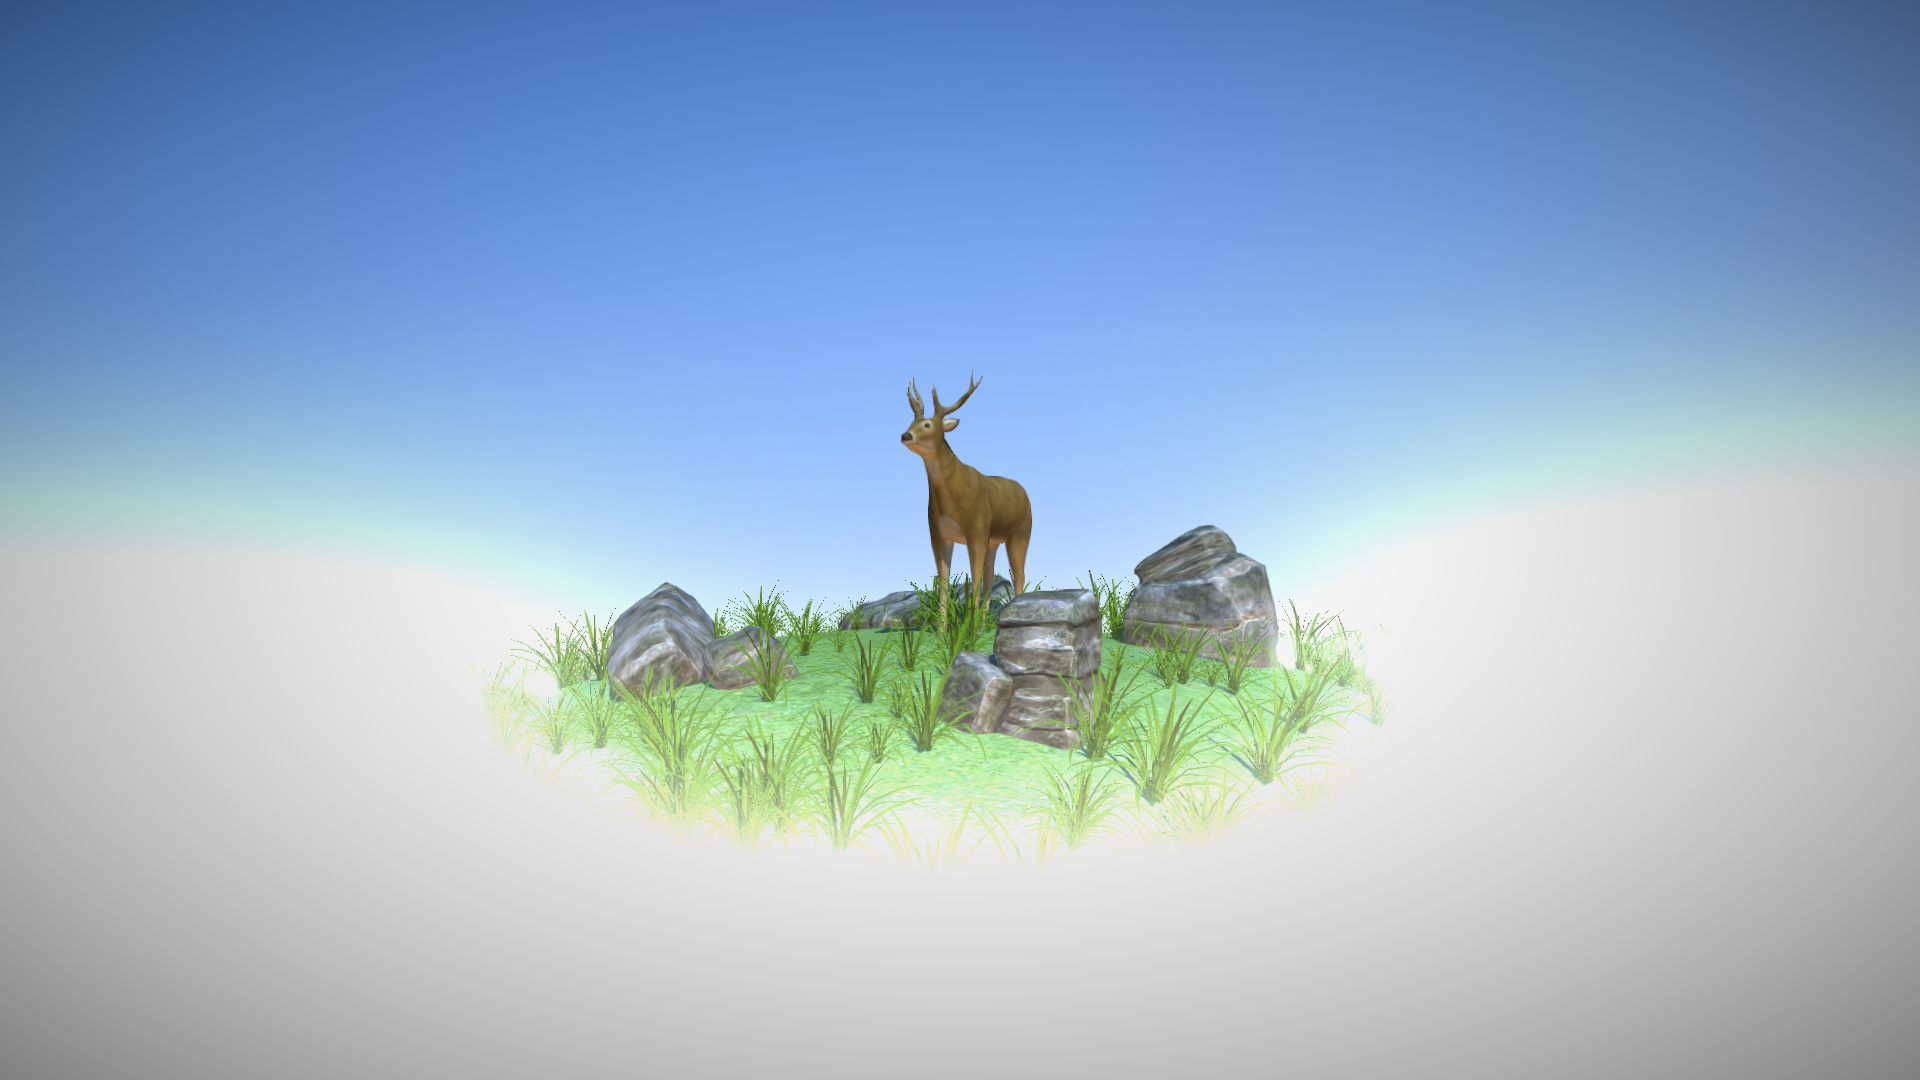
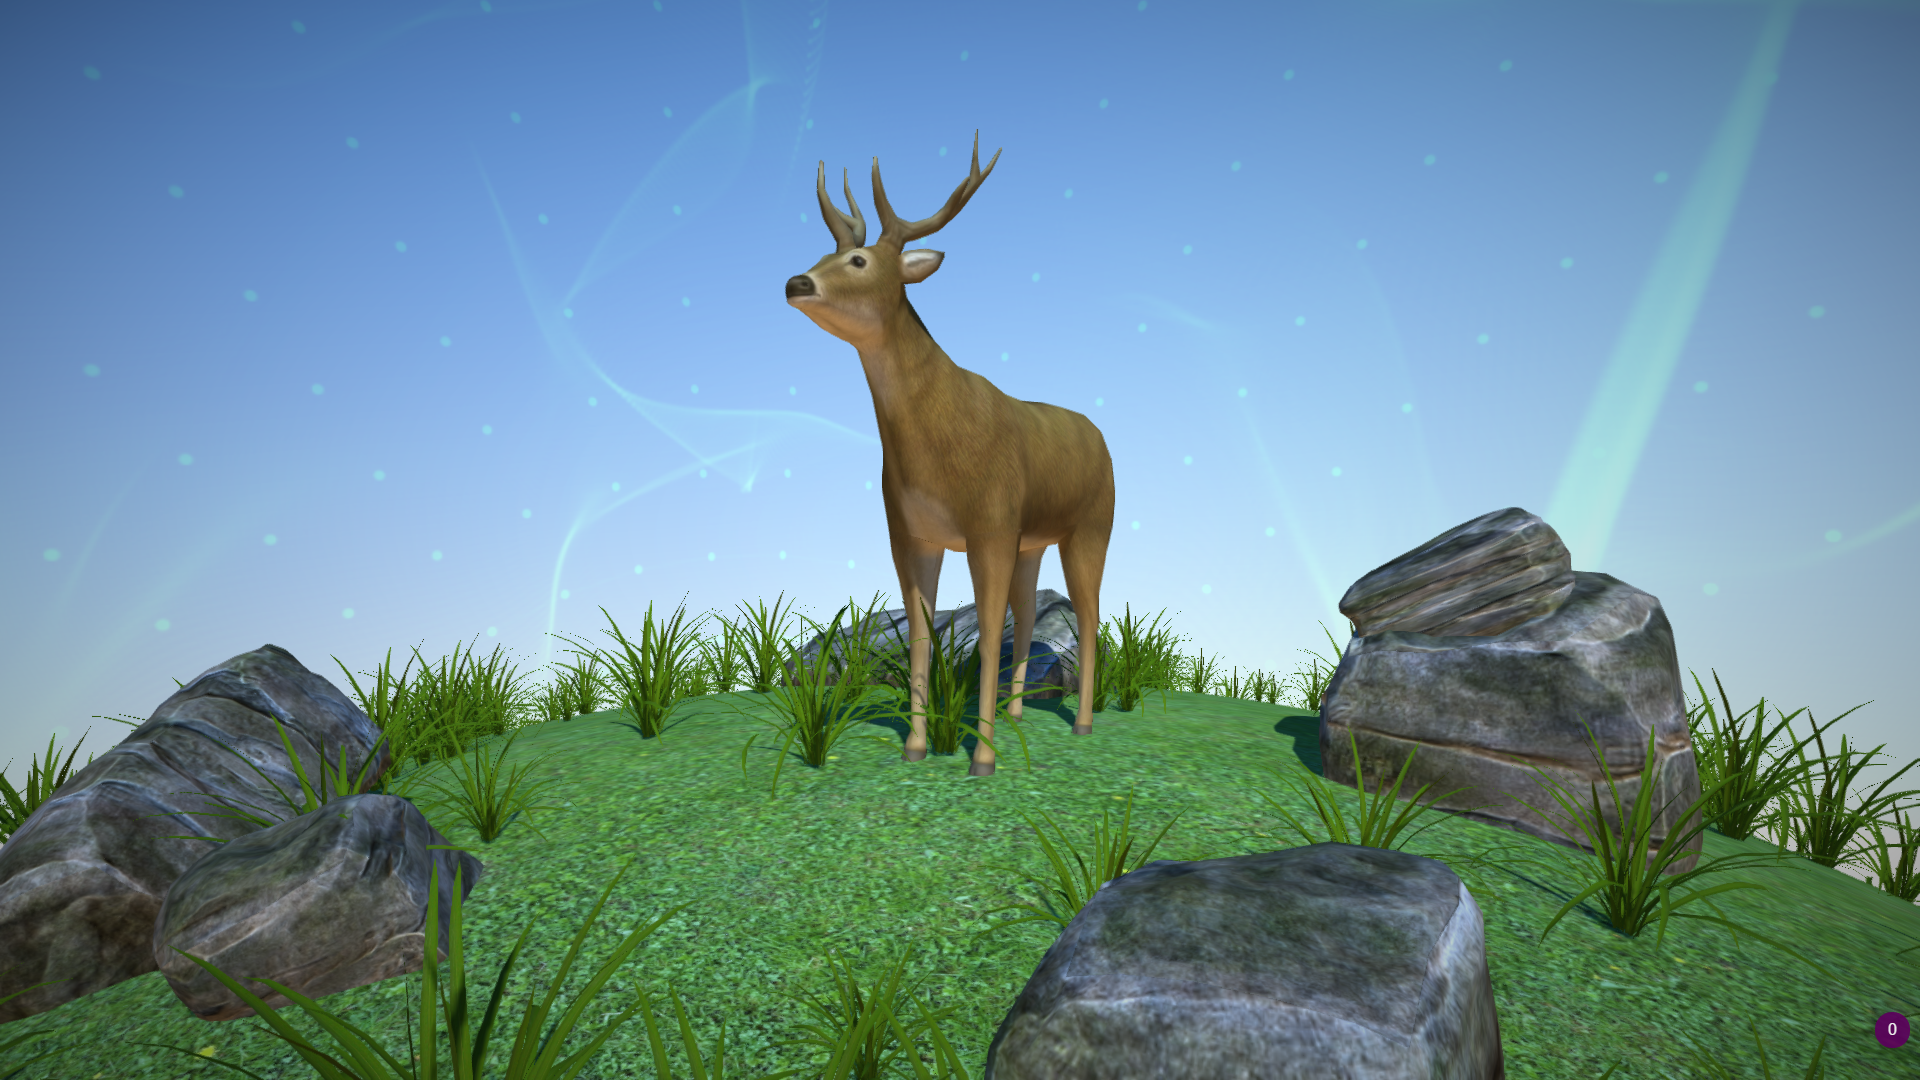
added environment, removed unused maps

diff --git a/exercice/index.html b/exercice/index.html
@@ -19,6 +19,7 @@
 </head>
 <body>
 
+    <!--THREE & utils-->
     <script src="../three.js/build/three.js"></script>
     <script src="../three.js/examples/js/loaders/OBJLoader.js"></script>
     <script src="../three.js/examples/js/controls/OrbitControls.js"></script>
@@ -26,11 +27,13 @@
     <!--post processing (effets)-->
     <script src="../three.js/examples/js/postprocessing/EffectComposer.js"></script>
 
+        <!--passes-->
         <script src="../three.js/examples/js/postprocessing/RenderPass.js"></script>
         <script src="../three.js/examples/js/postprocessing/MaskPass.js"></script>
         <script src="../three.js/examples/js/postprocessing/ShaderPass.js"></script>
         <script src="../three.js/examples/js/postprocessing/UnrealBloomPass.js"></script>
 
+        <!--shaders-->
         <script src="../three.js/examples/js/shaders/CopyShader.js"></script>
         <script src="../three.js/examples/js/shaders/ConvolutionShader.js"></script>
         <script src="../three.js/examples/js/shaders/FXAAShader.js"></script>
@@ -39,7 +42,7 @@
         <script src="../three.js/examples/js/shaders/SSAOShader.js"></script>
         <script src="../three.js/examples/js/shaders/VignetteShader.js"></script>
 
-
+    <!--custom code-->
 
     <!--lib-->
     <script src="app/geometries.js"></script>
@@ -48,10 +51,13 @@
     <script src="app/post_processing.js"></script>
     <script src="app/shaders.js"></script>
     <script src="app/textures.js"></script>
-    <script src="app/models/deer.js"></script>
-    <script src="app/models/grass.js"></script>
-    <script src="app/models/ground.js"></script>
-    <script src="app/models/rocks.js"></script>
+
+    <!--models-->
+        <script src="app/models/deer.js"></script>
+        <script src="app/models/environment.js"></script>
+        <script src="app/models/grass.js"></script>
+        <script src="app/models/ground.js"></script>
+        <script src="app/models/rocks.js"></script>
 
     <!--main-->
     <script src="app/main.js"></script>

diff --git a/exercice/app/models/ground.js b/exercice/app/models/ground.js
@@ -9,8 +9,8 @@ var ground = function( exports ) {
         textures.ground_0.wrapS = textures.ground_0.wrapT = THREE.RepeatWrapping;
         textures.ground_0.repeat.multiplyScalar( 6 );
 
-        mesh = new THREE.Mesh(new THREE.SphereBufferGeometry(radius, 64, 128, 0, PI, 0, PI), materials.ground );
-        // mesh = new THREE.Mesh(new THREE.IcosahedronBufferGeometry(radius, 4), new THREE.MeshBasicMaterial({map: textures.ground_0}));
+        mesh = new THREE.Mesh(new THREE.SphereBufferGeometry(radius, 32, 32, 0, PI, 0, PI), materials.ground );
+        // mesh = new THREE.Mesh(new THREE.IcosahedronBufferGeometry(radius, 6), materials.ground);
 
         mesh.receiveShadow = true;
         mesh.rotateX( -PI / 2 );
@@ -19,6 +19,15 @@ var ground = function( exports ) {
         exports.mesh = mesh;
 
         /*
+        // on va avoir besoin de manipuler des textures sur la vertex shader
+        // ce qui n'est pas toujours supporté. il faut donc vérifier si cette
+        // opération est possible
+        //https://github.com/KhronosGroup/WebGL/blob/90ceaac0c4546b1aad634a6a5c4d2dfae9f4d124/conformance-suites/1.0.0/extra/webgl-info.html
+        var gl = renderer.getContext();
+        if( gl.getParameter(gl.MAX_VERTEX_TEXTURE_IMAGE_UNITS) == 0 ) {
+            throw new Error( "vertex shader cannot read textures" );
+        }
+
         shaderLoader.load([
             "app/glsl/ground_vert.glsl",
             "app/glsl/ground_frag.glsl"
@@ -31,7 +40,7 @@ var ground = function( exports ) {
             ], onTexturesLoaded );
 
         });
-        //*/
+         //*/
 
     };
 
@@ -51,12 +60,7 @@ var ground = function( exports ) {
             },
             vertexShader:   shaderLoader.ground_vert,
             fragmentShader: shaderLoader.ground_frag,
-            // transparent:true,
-            roughness : .75,
-            metalness : .05,
-            map: textures.ground_0
         });
-        console.log (material );
 
         mesh.material = material;
     }

diff --git a/exercice/app/main.js b/exercice/app/main.js
@@ -52,11 +52,11 @@ function initTextures(){
     console.log( "load textures" );
     var urls = [
         'res/deer.jpg',
+        'res/environment.png',
         'res/grass.jpg',
         'res/ground_0.jpg',
         'res/rock_diffuse.jpg',
-        'res/rock_normal.jpg',
-        'res/rock_specular.jpg'
+        'res/rock_normal.jpg'
     ];
     textures.load( urls, initLights );
 }
@@ -80,6 +80,10 @@ function creaeObjects(){
             params:{ map:textures.deer}
         },
         {
+            name:"environment",
+            params:{ map:textures.environment }
+        },
+        {
             name:"grass",
             params:{ map:textures.grass }
         },
@@ -91,23 +95,28 @@ function creaeObjects(){
             name:"rock",
             params:{
                 map:textures.rock_diffuse,
-                normalMap: textures.rock_normal,
-                // displacementMap:textures.rock_specular,
-                // displacementScale:10,
-                // displacementBias:0
+                normalMap: textures.rock_normal
             }
         }
     ];
-    materials.init( config );//synchrone, les materiaux sont disponibles immédiatement
+    //initialise les matériaux qui seront utillisé par les objets
+    materials.init( config );
 
+    //crée le bichon
     deer.init( scene );
 
+    //crée l'arrière plan
+    environment.init( scene );
+
+    //crée le terrain
     ground.init();
     scene.add( ground.mesh );
 
+    //ajooute les cailloux
     rocks.init();
     scene.add( rocks.group );
 
+    //ajoute la végétation
     grass.init( renderer, ground, rocks );
     scene.add( grass.group );
 
@@ -124,7 +133,7 @@ function update(){
 
     controls.update();
 
-    renderer.render( scene, camera );
+//    renderer.render( scene, camera );
 
     post_processing.render();
 

diff --git a/exercice/app/models/environment.js b/exercice/app/models/environment.js
@@ -1,0 +1,32 @@
+var environment = function( exports ){
+
+    var mesh, material;
+    exports.init = function( scene ){
+
+        material = materials.environment;
+        mesh = new THREE.Mesh( new THREE.SphereBufferGeometry( 1,128,64 ), material );
+        material.blending = THREE.AdditiveBlending;
+        material.transparent = true;
+
+        mesh.scale.multiplyScalar( -1000 );
+        scene.add( mesh );
+        exports.start();
+
+    };
+
+    //animation
+    var raf;
+    exports.stop = function(){ cancelAnimationFrame(raf); };
+    exports.start = function(){ exports.stop(); update(); };
+    function update(){
+        raf = requestAnimationFrame(update);
+        material.opacity =  .35;// + .25 * Math.sin( Date.now() * 0.001 );
+        mesh.rotation.x -= RAD * .01;
+        mesh.rotation.y -= RAD * .01;
+
+    }
+
+
+    return exports;
+
+}({});

diff --git a/exercice/app/models/grass.js b/exercice/app/models/grass.js
@@ -4,15 +4,6 @@ var grass = function( exports ) {
     var group, material;
     exports.init = function( renderer, ground, rocks ){
 
-        // on va avoir besoin de manipuler des textures sur la vertex shader
-        // ce qui n'est pas toujours supporté. il faut donc vérifier si cette
-        // opération est possible
-        //https://github.com/KhronosGroup/WebGL/blob/90ceaac0c4546b1aad634a6a5c4d2dfae9f4d124/conformance-suites/1.0.0/extra/webgl-info.html
-        var gl = renderer.getContext();
-        if( gl.getParameter(gl.MAX_VERTEX_TEXTURE_IMAGE_UNITS) == 0 ) {
-            throw new Error( "vertex shader cannot read textures" );
-        }
-
         group = new THREE.Object3D();
         exports.group = group;
 

diff --git a/README.md b/README.md
@@ -1,3 +1,9 @@
 # epic_workshop
 WebGL workshop
 ![result](intro/slides/cover.png)
+
+
+
+environment
+le map d'environnement vient de 
+http://www.mettle.com/mettle-skybox-sneek-peek-free-sample/
